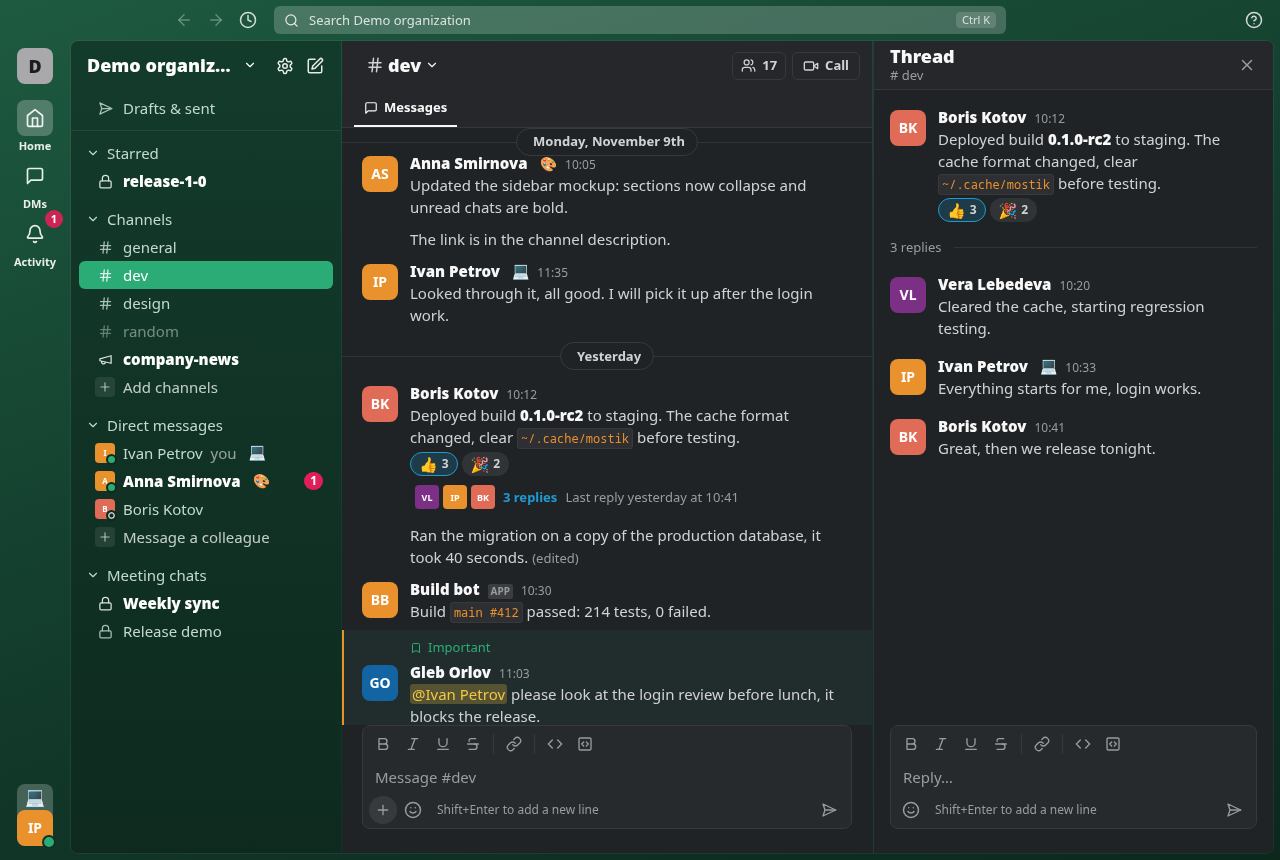
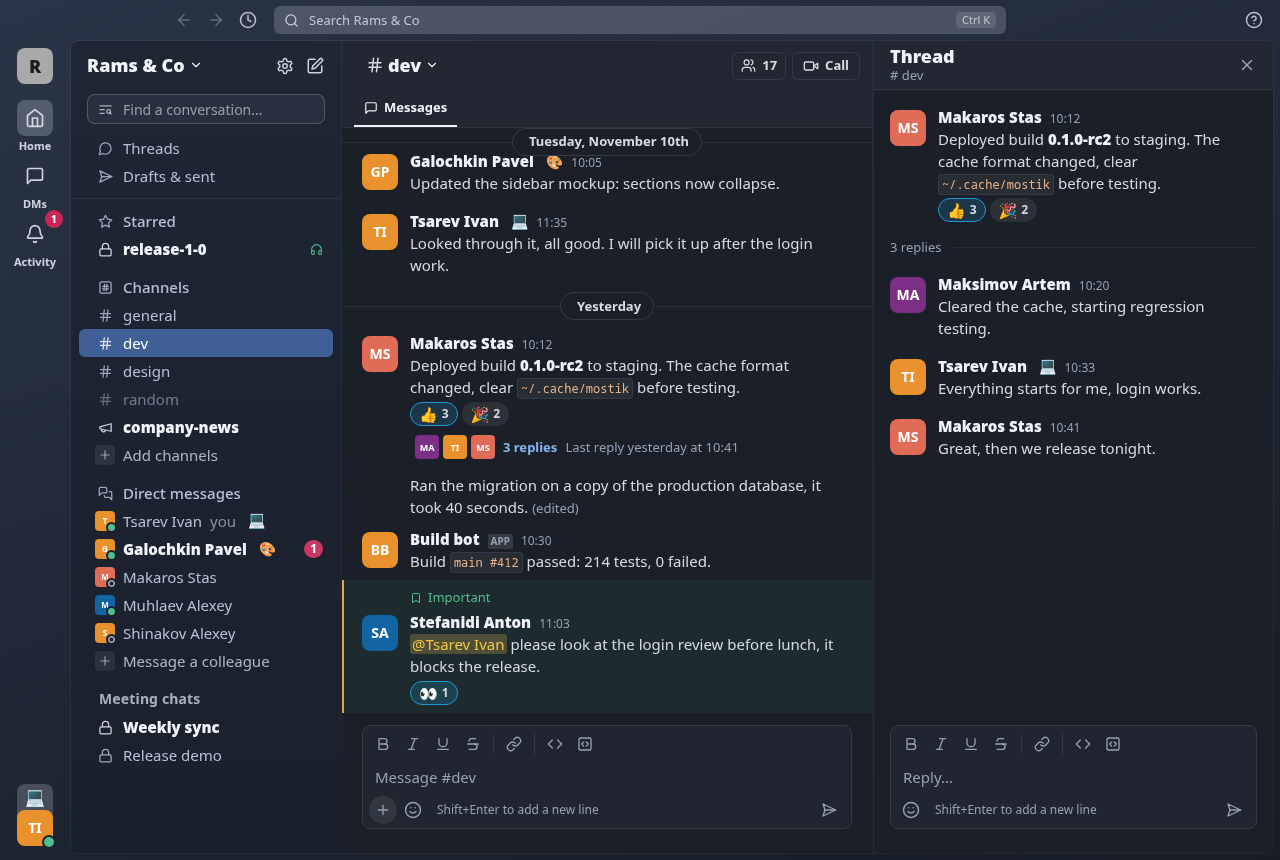
README: new screenshots of the current design: Dusk dark with a thread, Moss light, Appearance preferences

diff --git a/README.md b/README.md
@@ -9,7 +9,7 @@
 > протокол веб-клиента Телемоста, который может измениться в любой момент.
 > «Яндекс» и «Телемост» являются товарными знаками их правообладателя.
 
-![Мостик: канал #dev в тёмной зелёной теме, в сайдбаре раздел «Чаты встреч», справа открыт тред](docs/screenshots/dark-thread.png)
+![Мостик: канал #dev в тёмной теме «Сумерки», в сайдбаре разделы и «Чаты встреч», справа открыт тред](docs/screenshots/dark-thread.png)
 
 ## Возможности
 
@@ -27,7 +27,7 @@
 
 | Светлая тема | Настройки |
 |---|---|
-| ![Мостик: светлая тема, панель действий над сообщением](docs/screenshots/light.png) | ![Мостик: настройки оформления, выбор темы](docs/screenshots/preferences.png) |
+| ![Мостик: светлая тема «Мох», панель действий над сообщением](docs/screenshots/light.png) | ![Мостик: настройки оформления, темы Мостика и классические](docs/screenshots/preferences.png) |
 
 ## Установка
 
